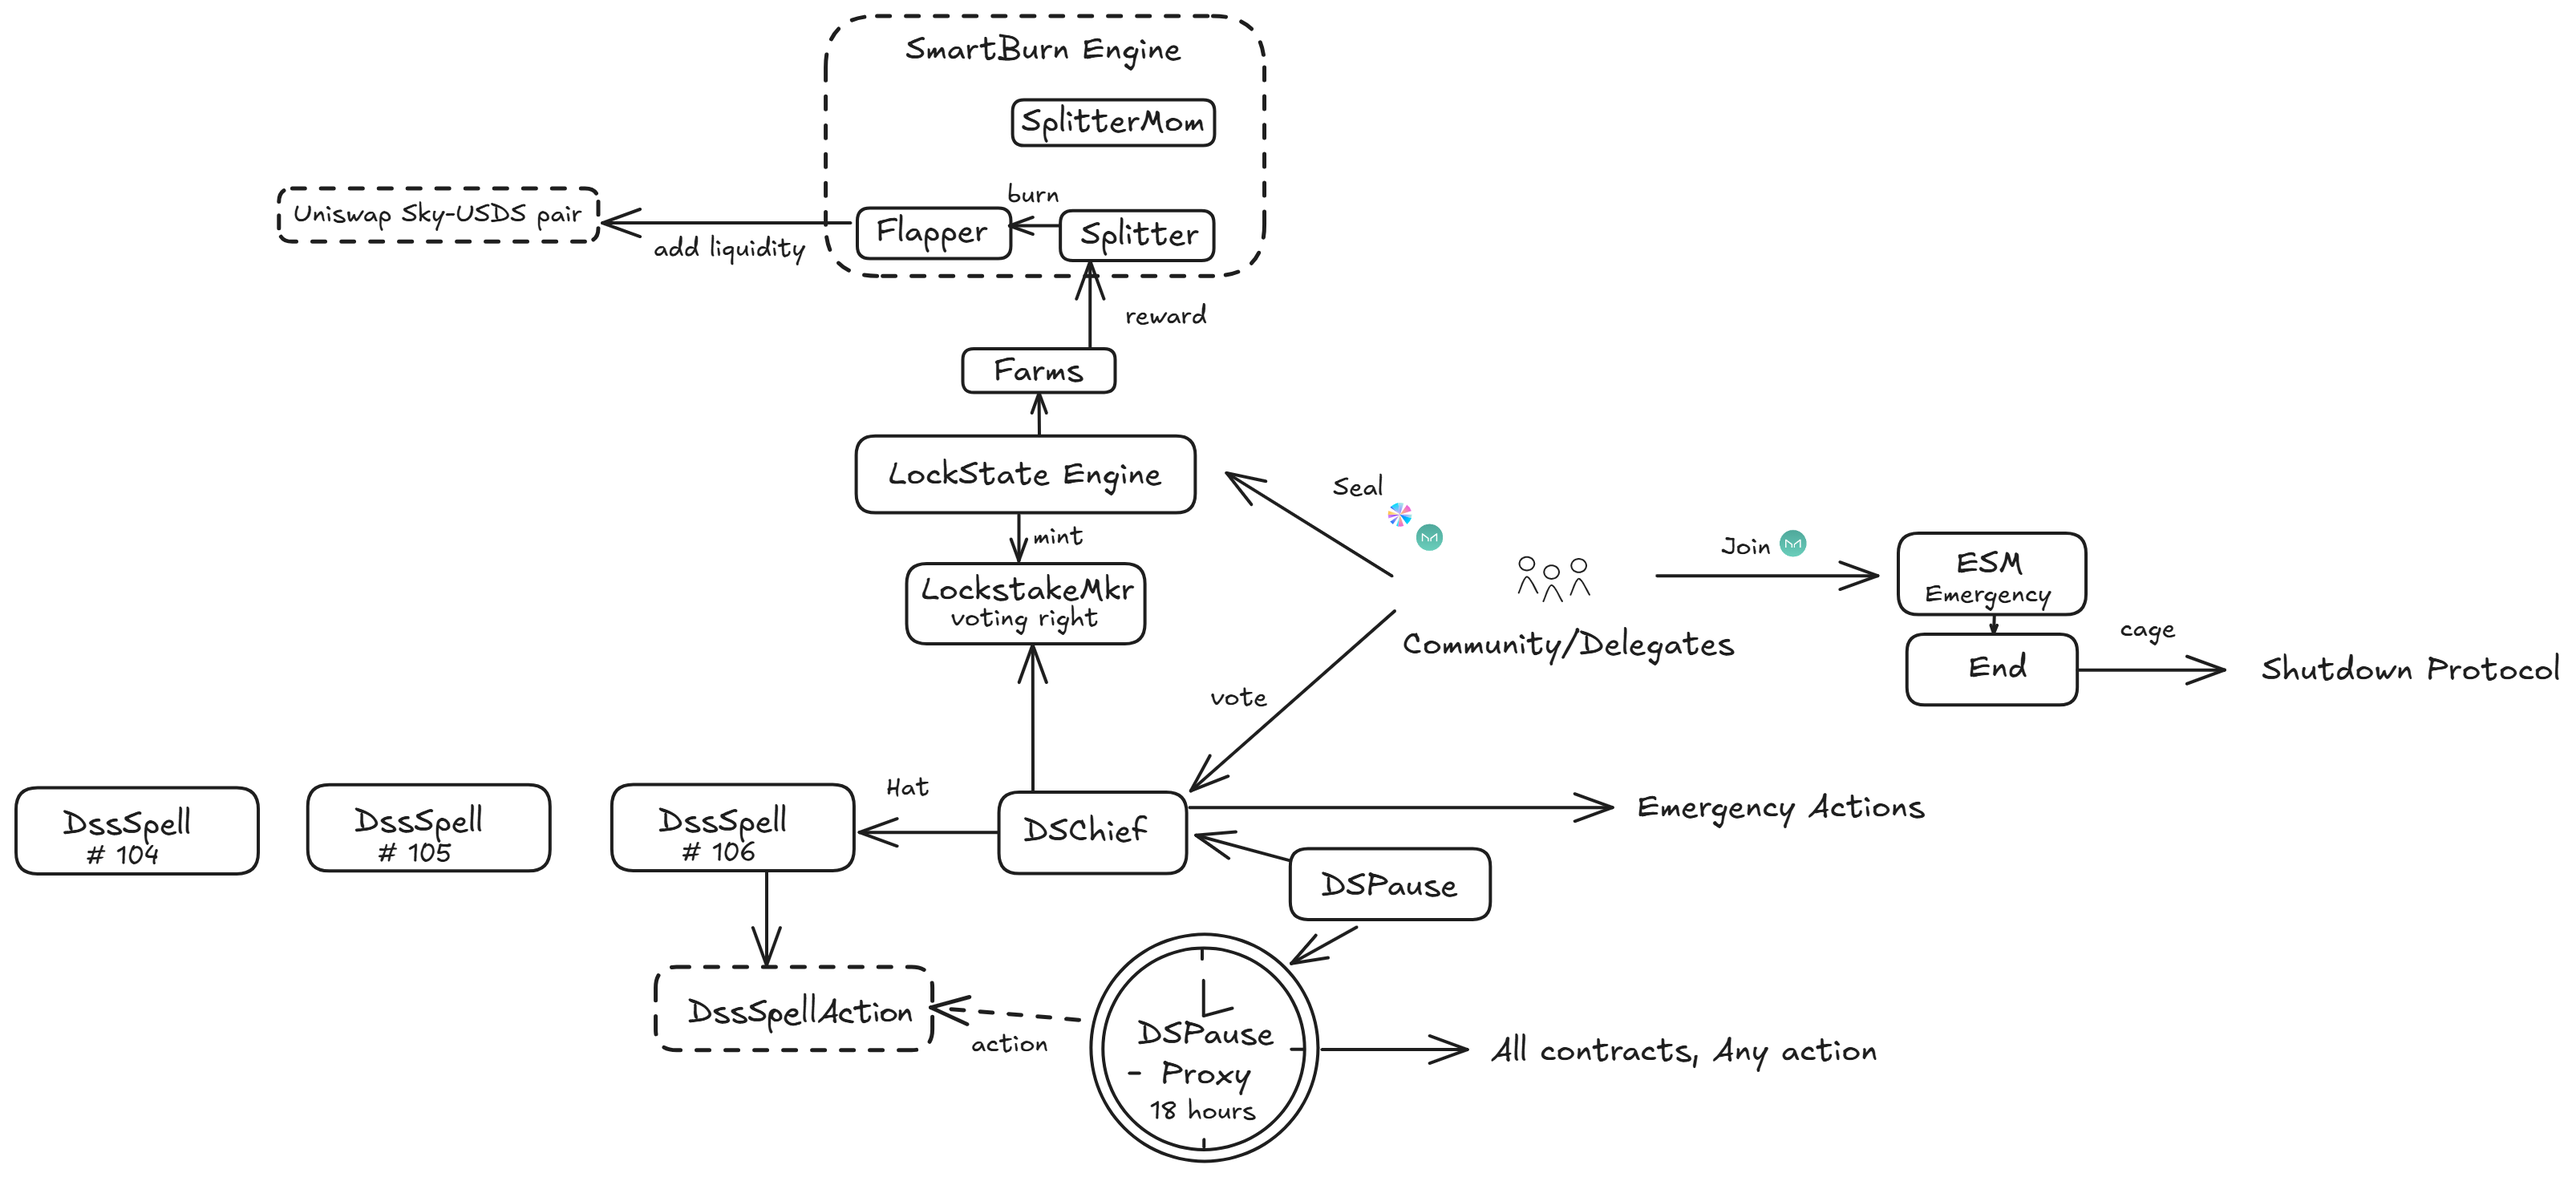
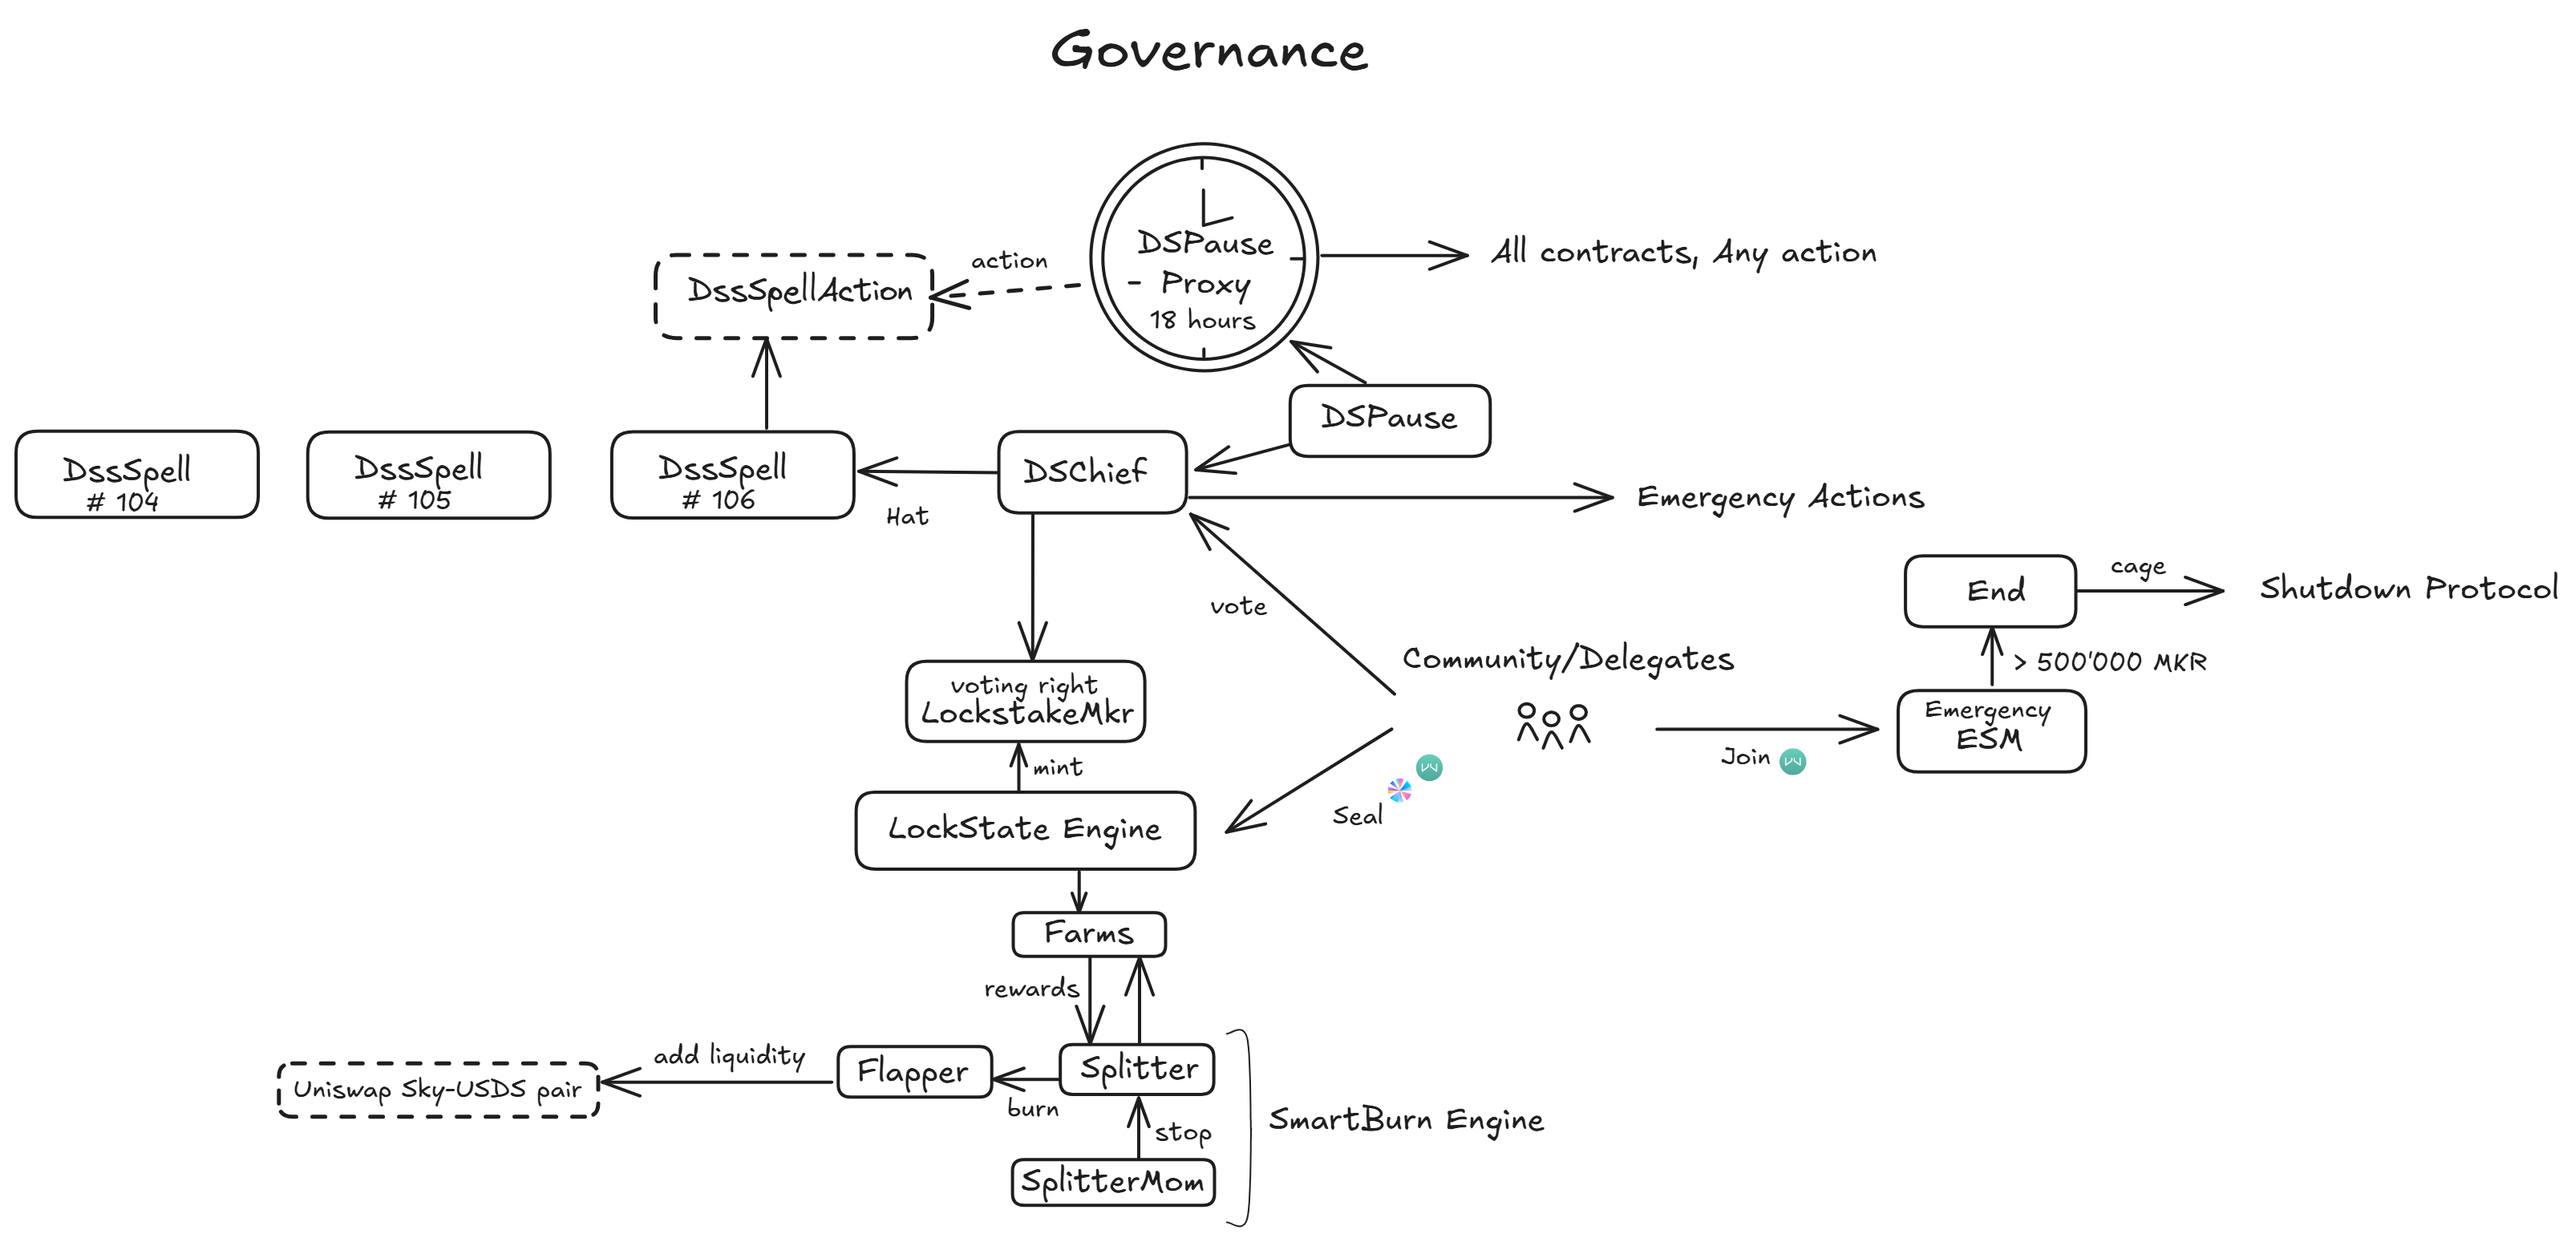
add all diagrams

diff --git a/src/content/protocols/sky.md b/src/content/protocols/sky.md
@@ -82,7 +82,9 @@ Proposals can be scheduled for executed with the `DSPauseProxy` which enforces a
 
 ![Overview of the sky governance](./sky-governance.png)
 
-## Collateral and Liquidation
+## Collaterallized Debt Positions Module
+
+![Overview of the CDP module](./sky-cdp.png)
 
 ## Contracts
 
@@ -117,30 +119,30 @@ The list of contract and deployment addresses is available in both the [official
 
 ## Permission owners
 
-| Name                      | Account                                                                                                                                     | Type     |
-| ------------------------- | ------------------------------------------------------------------------------------------------------------------------------------------- | -------- |
-| DSPause Proxy             | [0xBE8E3e3618f7474F8cB1d074A26afFef007E98FB](https://etherscan.io/address/0xBE8E3e3618f7474F8cB1d074A26afFef007E98FB)                       | contract |
-| USDSJoin                  | [0x3c0f895007ca717aa01c8693e59df1e8c3777feb](https://etherscan.io/address/0x3c0f895007ca717aa01c8693e59df1e8c3777feb)                       | contract |
-| DAIJoin                   | [0x9759a6ac90977b93b58547b4a71c78317f391a28](https://etherscan.io/address/0x9759a6ac90977b93b58547b4a71c78317f391a28)                       | contract |
-| DaiJoinFab                | [0x64a84e558192dd025F3A96775FEE8FB530f27177](https://etherscan.io/address/0x64a84e558192dd025F3A96775FEE8FB530f27177)                       | contract |
-| DssLitePsmMom             | [0x467b32b0407Ad764f56304420Cddaa563bDab425](https://etherscan.io/address/0x467b32b0407Ad764f56304420Cddaa563bDab425)                       | contract |
-| LockstakeClipper          | [0xA85621D35cAf9Cf5C146D2376Ce553D7B78A6239](https://etherscan.io/address/0xA85621D35cAf9Cf5C146D2376Ce553D7B78A6239)                       | contract |
-| Dog                       | [0x135954d155898D42C90D2a57824C690e0c7BEf1B](https://etherscan.io/address/0x135954d155898D42C90D2a57824C690e0c7BEf1B)                       | contract |
-| SplitterMom               | [0xF51a075d468dE7dE3599C1Dc47F5C42d02C9230e](https://etherscan.io/address/0xF51a075d468dE7dE3599C1Dc47F5C42d02C9230e)                       | contract |
-| Vow                       | [0xA950524441892A31ebddF91d3cEEFa04Bf454466](https://etherscan.io/address/0xA950524441892A31ebddF91d3cEEFa04Bf454466)                       | contract |
-| MkrAuthority              | [0x6eEB68B2C7A918f36B78E2DB80dcF279236DDFb8](https://etherscan.io/address/0x6eEB68B2C7A918f36B78E2DB80dcF279236DDFb8)                       | contract |
-| DSChief                   | [0x0a3f6849f78076aefaDf113F5BED87720274dDC0](https://etherscan.io/address/0x0a3f6849f78076aefaDf113F5BED87720274dDC0)                       | contract |
-| MkrSky Converter          | [0xBDcFCA946b6CDd965f99a839e4435Bcdc1bc470B](https://etherscan.io/address/0xBDcFCA946b6CDd965f99a839e4435Bcdc1bc470B)                       | contract |
-| Flopper                   | [0xa41b6ef151e06da0e34b009b86e828308986736d](https://etherscan.io/address/0xa41b6ef151e06da0e34b009b86e828308986736d)                       | contract |
-| DssVestMintable           | [0xB313Eab3FdE99B2bB4bA9750C2DDFBe2729d1cE9](https://etherscan.io/address/0xB313Eab3FdE99B2bB4bA9750C2DDFBe2729d1cE9)                       | contract |
-| DssVestMintable           | [0x0fC8D4f2151453ca0cA56f07359049c8f07997Bd](https://etherscan.io/address/0x0fC8D4f2151453ca0cA56f07359049c8f07997Bd)                       | contract |
-| VestedRewardsDistribution | [0x2F0C88e935Db5A60DDA73b0B4EAEef55883896d9](https://etherscan.io/address/0x2F0C88e935Db5A60DDA73b0B4EAEef55883896d9)                       | contract |
-| Vat                       | [0x35D1b3F3D7966A1DFe207aa4514C12a259A0492B](https://etherscan.io/address/0x35D1b3F3D7966A1DFe207aa4514C12a259A0492B)                       | contract |
-| ESM                       | [0x09e05fF6142F2f9de8B6B65855A1d56B6cfE4c58](http![alt text](image.png)s://etherscan.io/address/0x09e05fF6142F2f9de8B6B65855A1d56B6cfE4c58) | contract |
-| END                       | [0x0e2e8F1D1326A4B9633D96222Ce399c708B19c28](https://etherscan.io/address/0x0e2e8F1D1326A4B9633D96222Ce399c708B19c28)                       | contract |
-| Jug                       | [0x19c0976f590D67707E62397C87829d896Dc0f1F1](https://etherscan.io/address/0x19c0976f590D67707E62397C87829d896Dc0f1F1)                       | contract |
-| Pot                       | [0x197e90f9fad81970ba7976f33cbd77088e5d7cf7](https://etherscan.io/address/0x197e90f9fad81970ba7976f33cbd77088e5d7cf7)                       | contract |
-| DssAutoLine               | [0xc7bdd1f2b16447dcf3de045c4a039a60ec2f0ba3](https://etherscan.io/address/0xc7bdd1f2b16447dcf3de045c4a039a60ec2f0ba3)                       | contract |
+| Name                      | Account                                                                                                               | Type     |
+| ------------------------- | --------------------------------------------------------------------------------------------------------------------- | -------- |
+| DSPause Proxy             | [0xBE8E3e3618f7474F8cB1d074A26afFef007E98FB](https://etherscan.io/address/0xBE8E3e3618f7474F8cB1d074A26afFef007E98FB) | contract |
+| USDSJoin                  | [0x3c0f895007ca717aa01c8693e59df1e8c3777feb](https://etherscan.io/address/0x3c0f895007ca717aa01c8693e59df1e8c3777feb) | contract |
+| DAIJoin                   | [0x9759a6ac90977b93b58547b4a71c78317f391a28](https://etherscan.io/address/0x9759a6ac90977b93b58547b4a71c78317f391a28) | contract |
+| DaiJoinFab                | [0x64a84e558192dd025F3A96775FEE8FB530f27177](https://etherscan.io/address/0x64a84e558192dd025F3A96775FEE8FB530f27177) | contract |
+| DssLitePsmMom             | [0x467b32b0407Ad764f56304420Cddaa563bDab425](https://etherscan.io/address/0x467b32b0407Ad764f56304420Cddaa563bDab425) | contract |
+| LockstakeClipper          | [0xA85621D35cAf9Cf5C146D2376Ce553D7B78A6239](https://etherscan.io/address/0xA85621D35cAf9Cf5C146D2376Ce553D7B78A6239) | contract |
+| Dog                       | [0x135954d155898D42C90D2a57824C690e0c7BEf1B](https://etherscan.io/address/0x135954d155898D42C90D2a57824C690e0c7BEf1B) | contract |
+| SplitterMom               | [0xF51a075d468dE7dE3599C1Dc47F5C42d02C9230e](https://etherscan.io/address/0xF51a075d468dE7dE3599C1Dc47F5C42d02C9230e) | contract |
+| Vow                       | [0xA950524441892A31ebddF91d3cEEFa04Bf454466](https://etherscan.io/address/0xA950524441892A31ebddF91d3cEEFa04Bf454466) | contract |
+| MkrAuthority              | [0x6eEB68B2C7A918f36B78E2DB80dcF279236DDFb8](https://etherscan.io/address/0x6eEB68B2C7A918f36B78E2DB80dcF279236DDFb8) | contract |
+| DSChief                   | [0x0a3f6849f78076aefaDf113F5BED87720274dDC0](https://etherscan.io/address/0x0a3f6849f78076aefaDf113F5BED87720274dDC0) | contract |
+| MkrSky Converter          | [0xBDcFCA946b6CDd965f99a839e4435Bcdc1bc470B](https://etherscan.io/address/0xBDcFCA946b6CDd965f99a839e4435Bcdc1bc470B) | contract |
+| Flopper                   | [0xa41b6ef151e06da0e34b009b86e828308986736d](https://etherscan.io/address/0xa41b6ef151e06da0e34b009b86e828308986736d) | contract |
+| DssVestMintable           | [0xB313Eab3FdE99B2bB4bA9750C2DDFBe2729d1cE9](https://etherscan.io/address/0xB313Eab3FdE99B2bB4bA9750C2DDFBe2729d1cE9) | contract |
+| DssVestMintable           | [0x0fC8D4f2151453ca0cA56f07359049c8f07997Bd](https://etherscan.io/address/0x0fC8D4f2151453ca0cA56f07359049c8f07997Bd) | contract |
+| VestedRewardsDistribution | [0x2F0C88e935Db5A60DDA73b0B4EAEef55883896d9](https://etherscan.io/address/0x2F0C88e935Db5A60DDA73b0B4EAEef55883896d9) | contract |
+| Vat                       | [0x35D1b3F3D7966A1DFe207aa4514C12a259A0492B](https://etherscan.io/address/0x35D1b3F3D7966A1DFe207aa4514C12a259A0492B) | contract |
+| ESM                       | [0x09e05fF6142F2f9de8B6B65855A1d56B6cfE4c58](https://etherscan.io/address/0x09e05fF6142F2f9de8B6B65855A1d56B6cfE4c58) | contract |
+| END                       | [0x0e2e8F1D1326A4B9633D96222Ce399c708B19c28](https://etherscan.io/address/0x0e2e8F1D1326A4B9633D96222Ce399c708B19c28) | contract |
+| Jug                       | [0x19c0976f590D67707E62397C87829d896Dc0f1F1](https://etherscan.io/address/0x19c0976f590D67707E62397C87829d896Dc0f1F1) | contract |
+| Pot                       | [0x197e90f9fad81970ba7976f33cbd77088e5d7cf7](https://etherscan.io/address/0x197e90f9fad81970ba7976f33cbd77088e5d7cf7) | contract |
+| DssAutoLine               | [0xc7bdd1f2b16447dcf3de045c4a039a60ec2f0ba3](https://etherscan.io/address/0xc7bdd1f2b16447dcf3de045c4a039a60ec2f0ba3) | contract |
 
 Contracts with mint rights on MKR:
 End : 0x0e2e8F1D1326A4B9633D96222Ce399c708B19c28
@@ -220,7 +222,7 @@ LockstakeClipper, Clipper, End
 | Splitter                              | cage                   | Irreversibly disables the contract.                                                                                                                                                                                                                                                                                                                                                                                                                    | DSPauseProxy (DAO), SplitterMom, Vow                                                        |
 | SplitterMom                           | setOwner               | Sets the owner of the contract. The owner can name a new owner and the authority.                                                                                                                                                                                                                                                                                                                                                                      | DSPauseProxy (DAO)                                                                          |
 | SplitterMom                           | setAuthority           | Sets the authority. The authority has the power to stop the `Splitter` contract without any delay.                                                                                                                                                                                                                                                                                                                                                     | DSPauseProxy (DAO)                                                                          |
-| SplitterMom                           | stop                   | Stops the `Splitter` contract. This action doesn't use `cage` and can be reversed by a governance proposal.                                                                                                                                                                                                                                                                                                                                            | DSChief (DAO without delay)                                                                 |
+| SplitterMom                           | stop                   | Stops the `Splitter` contract. This action doesn't use `cage` and can be reversed by a governance proposal.                                                                                                                                                                                                                                                                                                                                            | DSPauseProxy (DAO), DSChief (Unknown)                                                       |
 | FlapperUniV2                          | rely                   | Grants admin privileges over the contract to a specific address. The admin can change parameters such as `want` and `pip` (price feed) as well as call the `exec` function.                                                                                                                                                                                                                                                                            | DSPauseProxy (DAO), Splitter                                                                |
 | FlapperUniV2                          | deny                   | Revokes admin privileges to a specific address.                                                                                                                                                                                                                                                                                                                                                                                                        | DSPauseProxy (DAO), Splitter                                                                |
 | FlapperUniV2                          | file                   | Changes a contract parameter such as `pip` or `want`. `pip`is the reference price oracle and `want` is the lower bound price to swap the `USDS` token against `SKY`.                                                                                                                                                                                                                                                                                   | DSPauseProxy (DAO), Splitter                                                                |
